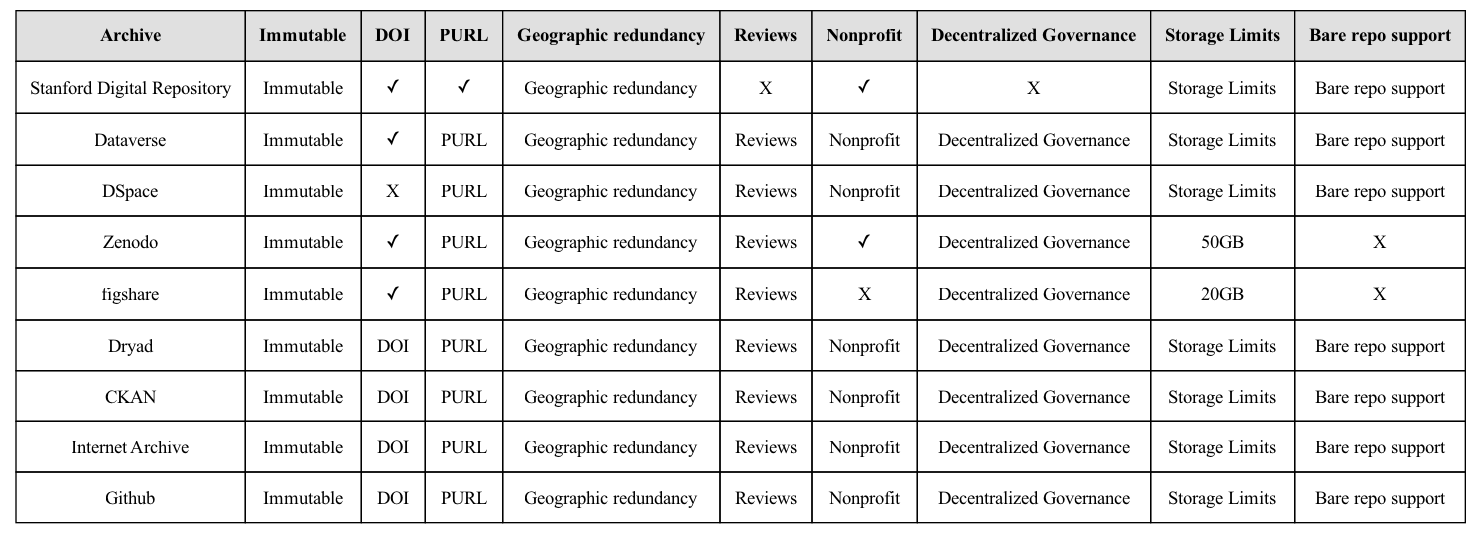
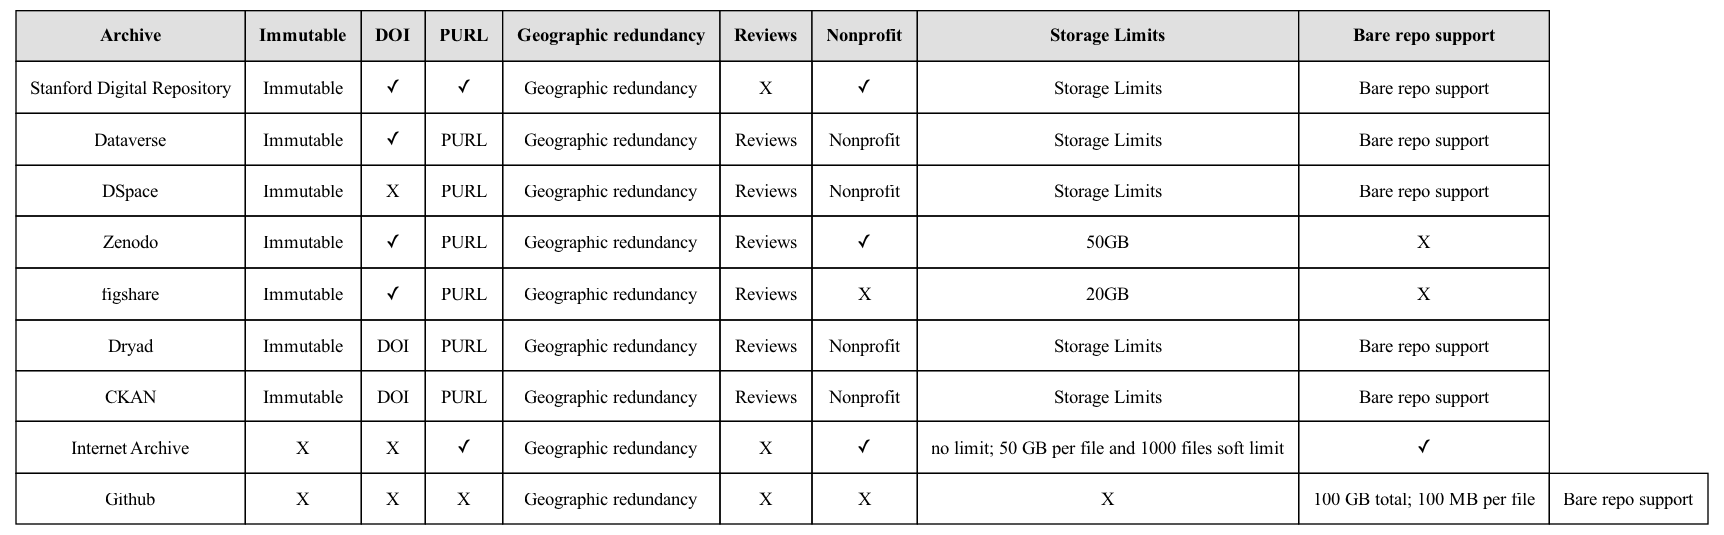
more file organization and add minimal file example

Changed region(s): [[0.0, 0.0, 0.9939, 0.9906]]

diff --git a/figs/storage_options.html b/figs/storage_options.html
@@ -8,7 +8,6 @@
     <td bgcolor="#E0E0E0"><b>Geographic redundancy</b></td>
     <td bgcolor="#E0E0E0"><b>Reviews</b></td>
     <td bgcolor="#E0E0E0"><b>Nonprofit</b></td>
-    <td bgcolor="#E0E0E0"><b>Decentralized Governance</b></td>
     <td bgcolor="#E0E0E0"><b>Storage Limits</b></td>
     <td bgcolor="#E0E0E0"><b>Bare repo support</b></td>
   </tr>
@@ -20,7 +19,6 @@
     <td>Geographic redundancy</td>
     <td>X</td>
     <td>✓</td>
-    <td>X</td>
     <td>Storage Limits</td>
     <td>Bare repo support</td>
   </tr>
@@ -32,7 +30,6 @@
     <td>Geographic redundancy</td>
     <td>Reviews</td>
     <td>Nonprofit</td>
-    <td>Decentralized Governance</td>
     <td>Storage Limits</td>
     <td>Bare repo support</td>
   </tr>
@@ -44,7 +41,6 @@
     <td>Geographic redundancy</td>
     <td>Reviews</td>
     <td>Nonprofit</td>
-    <td>Decentralized Governance</td>
     <td>Storage Limits</td>
     <td>Bare repo support</td>
   </tr>
@@ -56,7 +52,6 @@
     <td>Geographic redundancy</td>
     <td>Reviews</td>
     <td>✓</td>
-    <td>Decentralized Governance</td>
     <td>50GB</td>
     <td>X</td>
   </tr>
@@ -68,7 +63,6 @@
     <td>Geographic redundancy</td>
     <td>Reviews</td>
     <td>X</td>
-    <td>Decentralized Governance</td>
     <td>20GB</td>
     <td>X</td>
   </tr>
@@ -80,7 +74,6 @@
     <td>Geographic redundancy</td>
     <td>Reviews</td>
     <td>Nonprofit</td>
-    <td>Decentralized Governance</td>
     <td>Storage Limits</td>
     <td>Bare repo support</td>
   </tr>
@@ -92,32 +85,30 @@
     <td>Geographic redundancy</td>
     <td>Reviews</td>
     <td>Nonprofit</td>
-    <td>Decentralized Governance</td>
     <td>Storage Limits</td>
     <td>Bare repo support</td>
   </tr>
   <tr>
     <td>Internet Archive</td>
-    <td>Immutable</td>
-    <td>DOI</td>
-    <td>PURL</td>
+    <td>X</td>
+    <td>X</td>
+    <td>✓</td>
     <td>Geographic redundancy</td>
-    <td>Reviews</td>
-    <td>Nonprofit</td>
-    <td>Decentralized Governance</td>
-    <td>Storage Limits</td>
-    <td>Bare repo support</td>
+    <td>X</td>
+    <td>✓</td>
+    <td>no limit; 50 GB per file and 1000 files soft limit</td>
+    <td>✓</td>
   </tr>
   <tr>
     <td>Github</td>
-    <td>Immutable</td>
-    <td>DOI</td>
-    <td>PURL</td>
+    <td>X</td>
+    <td>X</td>
+    <td>X</td>
     <td>Geographic redundancy</td>
-    <td>Reviews</td>
-    <td>Nonprofit</td>
-    <td>Decentralized Governance</td>
-    <td>Storage Limits</td>
+    <td>X</td>
+    <td>X</td>
+    <td>X</td>
+    <td>100 GB total; 100 MB per file</td>
     <td>Bare repo support</td>
   </tr>
 </table>

diff --git a/figs/create_charts.py b/figs/create_charts.py
@@ -59,32 +59,45 @@ dot.edges(["12", "23", "34", "35", "36", "37"])
 
 dot.render(f"{dir_path}/usage.gv")
 
-ascii_files = DisplayTree(
-    ".",
-    stringRep=True,
-    ignoreList=[
-        "watch_calibration",
-        "watch_calibration.egg-info",
-        "*.wav",
-        "build",
-    ]
+def create_ascii_file_chart(filepath=".", outfile=f"{dir_path}/file_structure.png", ignoreList=None):
+
+    if ignoreList is None:
+        ignoreList = [
+            "raw_data",
+            "deriv_data",
+            "watch_calibration.egg-info",
+            "*.wav",
+            "build",
+        ]
+
+    ascii_files = DisplayTree(
+        filepath,
+        stringRep=True,
+        ignoreList=ignoreList
+    )
+
+    print(ascii_files)
+
+    # Create a new Image
+    # make sure the dimensions (W and H) are big enough for the ascii art
+    W, H = (400,25*ascii_files.count('\n'))
+    im = Image.new("RGBA",(W,H),"white")
+
+    font = ImageFont.truetype(f"{dir_path}/SourceCodePro-Regular.otf", 20)
+
+    # Draw text to image
+    draw = ImageDraw.Draw(im)
+    # w, h = draw.textsize(ascii_files)
+    # draws the text in the center of the image
+    # draw.text(((W-w)/2,(H-h)/2), ascii_text, fill="black")
+    draw.multiline_text((10, 10), ascii_files, font=font, fill=(0,0,0))
+
+    # Save Image
+    im.save(outfile, "PNG")
+
+create_ascii_file_chart()
+create_ascii_file_chart(
+    filepath="../arts-of-example",
+    outfile=f"{dir_path}/file_structure_minimal.png",
+    ignoreList=[]
 )
-
-print(ascii_files)
-
-# Create a new Image
-# make sure the dimensions (W and H) are big enough for the ascii art
-W, H = (400,950)
-im = Image.new("RGBA",(W,H),"white")
-
-font = ImageFont.truetype(f"{dir_path}/SourceCodePro-Regular.otf", 20)
-
-# Draw text to image
-draw = ImageDraw.Draw(im)
-# w, h = draw.textsize(ascii_files)
-# draws the text in the center of the image
-# draw.text(((W-w)/2,(H-h)/2), ascii_text, fill="black")
-draw.multiline_text((10, 10), ascii_files, font=font, fill=(0,0,0))
-
-# Save Image
-im.save(f"{dir_path}/file_structure.png", "PNG")
